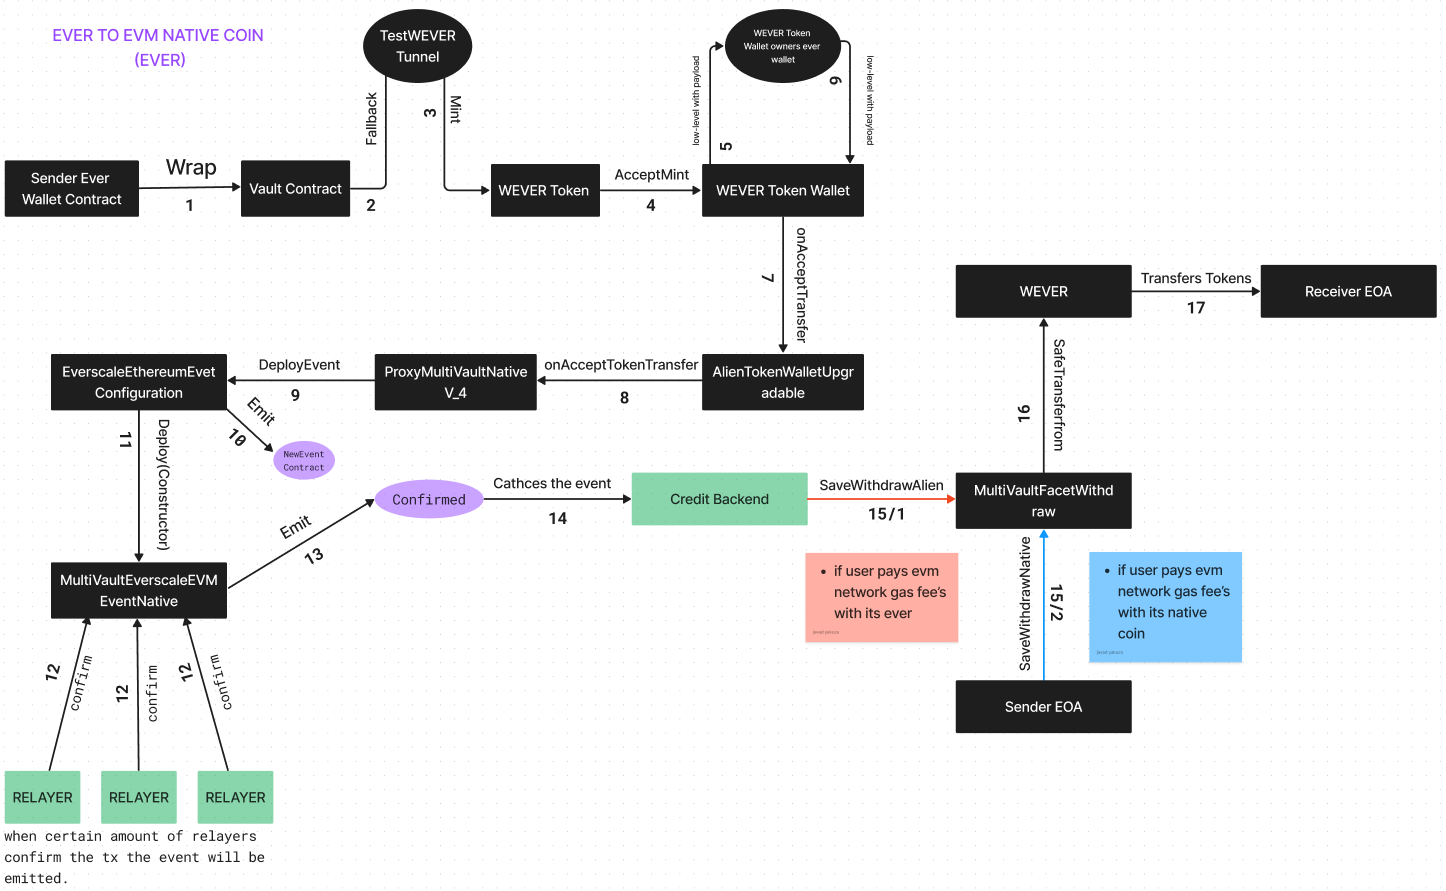
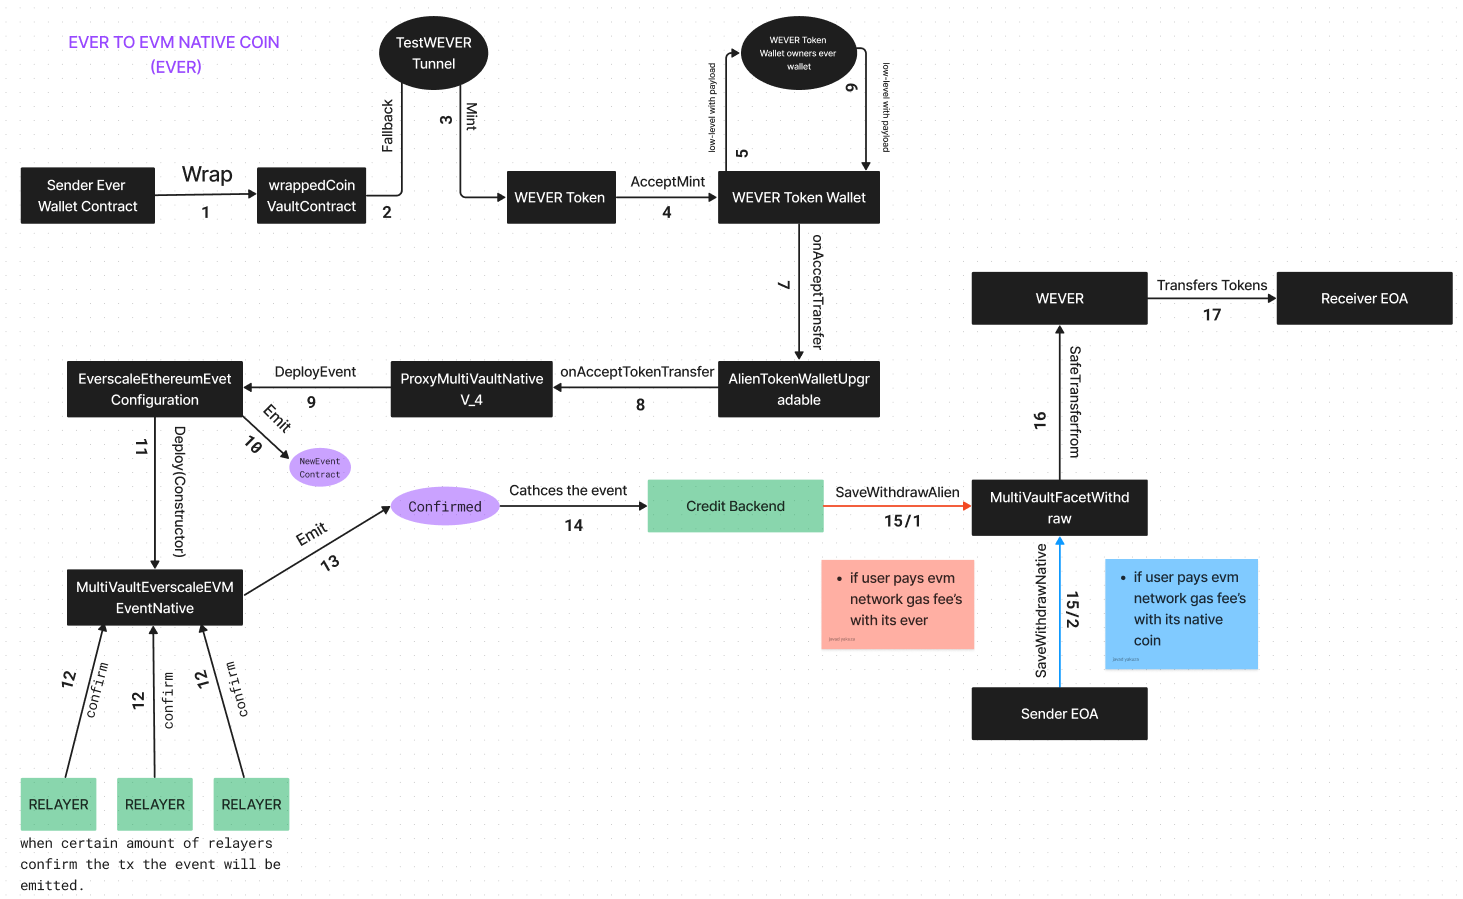
VISUAL_UPDATED

diff --git a/EVER-TO-EVM/constants.ts b/EVER-TO-EVM/constants.ts
@@ -6,6 +6,8 @@ export const EthereumEverscaleEventConfigurationA: Address = new Address(
 export const EthereumEverscaleEventConfigurationN: Address = new Address(
   "0:bd71db92ddb726930c0a23aade41d5d6134056efb791605189e8489d1d29e626",
 ); // ever native token event conf
+export const Vault: Address = new Address("0:557957cba74ab1dc544b4081be81f1208ad73997d74ab3b72d95864a41b779a4");
+// Vault contract
 export const EVERUSDT: Address = new Address("0:a519f99bb5d6d51ef958ed24d337ad75a1c770885dcd42d51d6663f9fcdacfb2");
 // ever USDT
 export const EVERWBNB: Address = new Address("0:9002c8a1cbbca3f9700b1b9438082342ede76d579e3a5a7c6f0e5d030ac5df43");

diff --git a/EVER-TO-EVM/scripts/autoTransfer/transferEverNativeTokenCoin.ts b/EVER-TO-EVM/scripts/autoTransfer/transferEverNativeTokenCoin.ts
@@ -15,6 +15,7 @@ async function transferEverNativeCoin() {
     workchain: 0,
   });
   console.log("ever wallet address : ", await everWallet.address.toString());
+  // fetching the contracts
 }
 
 transferEverNativeCoin()
